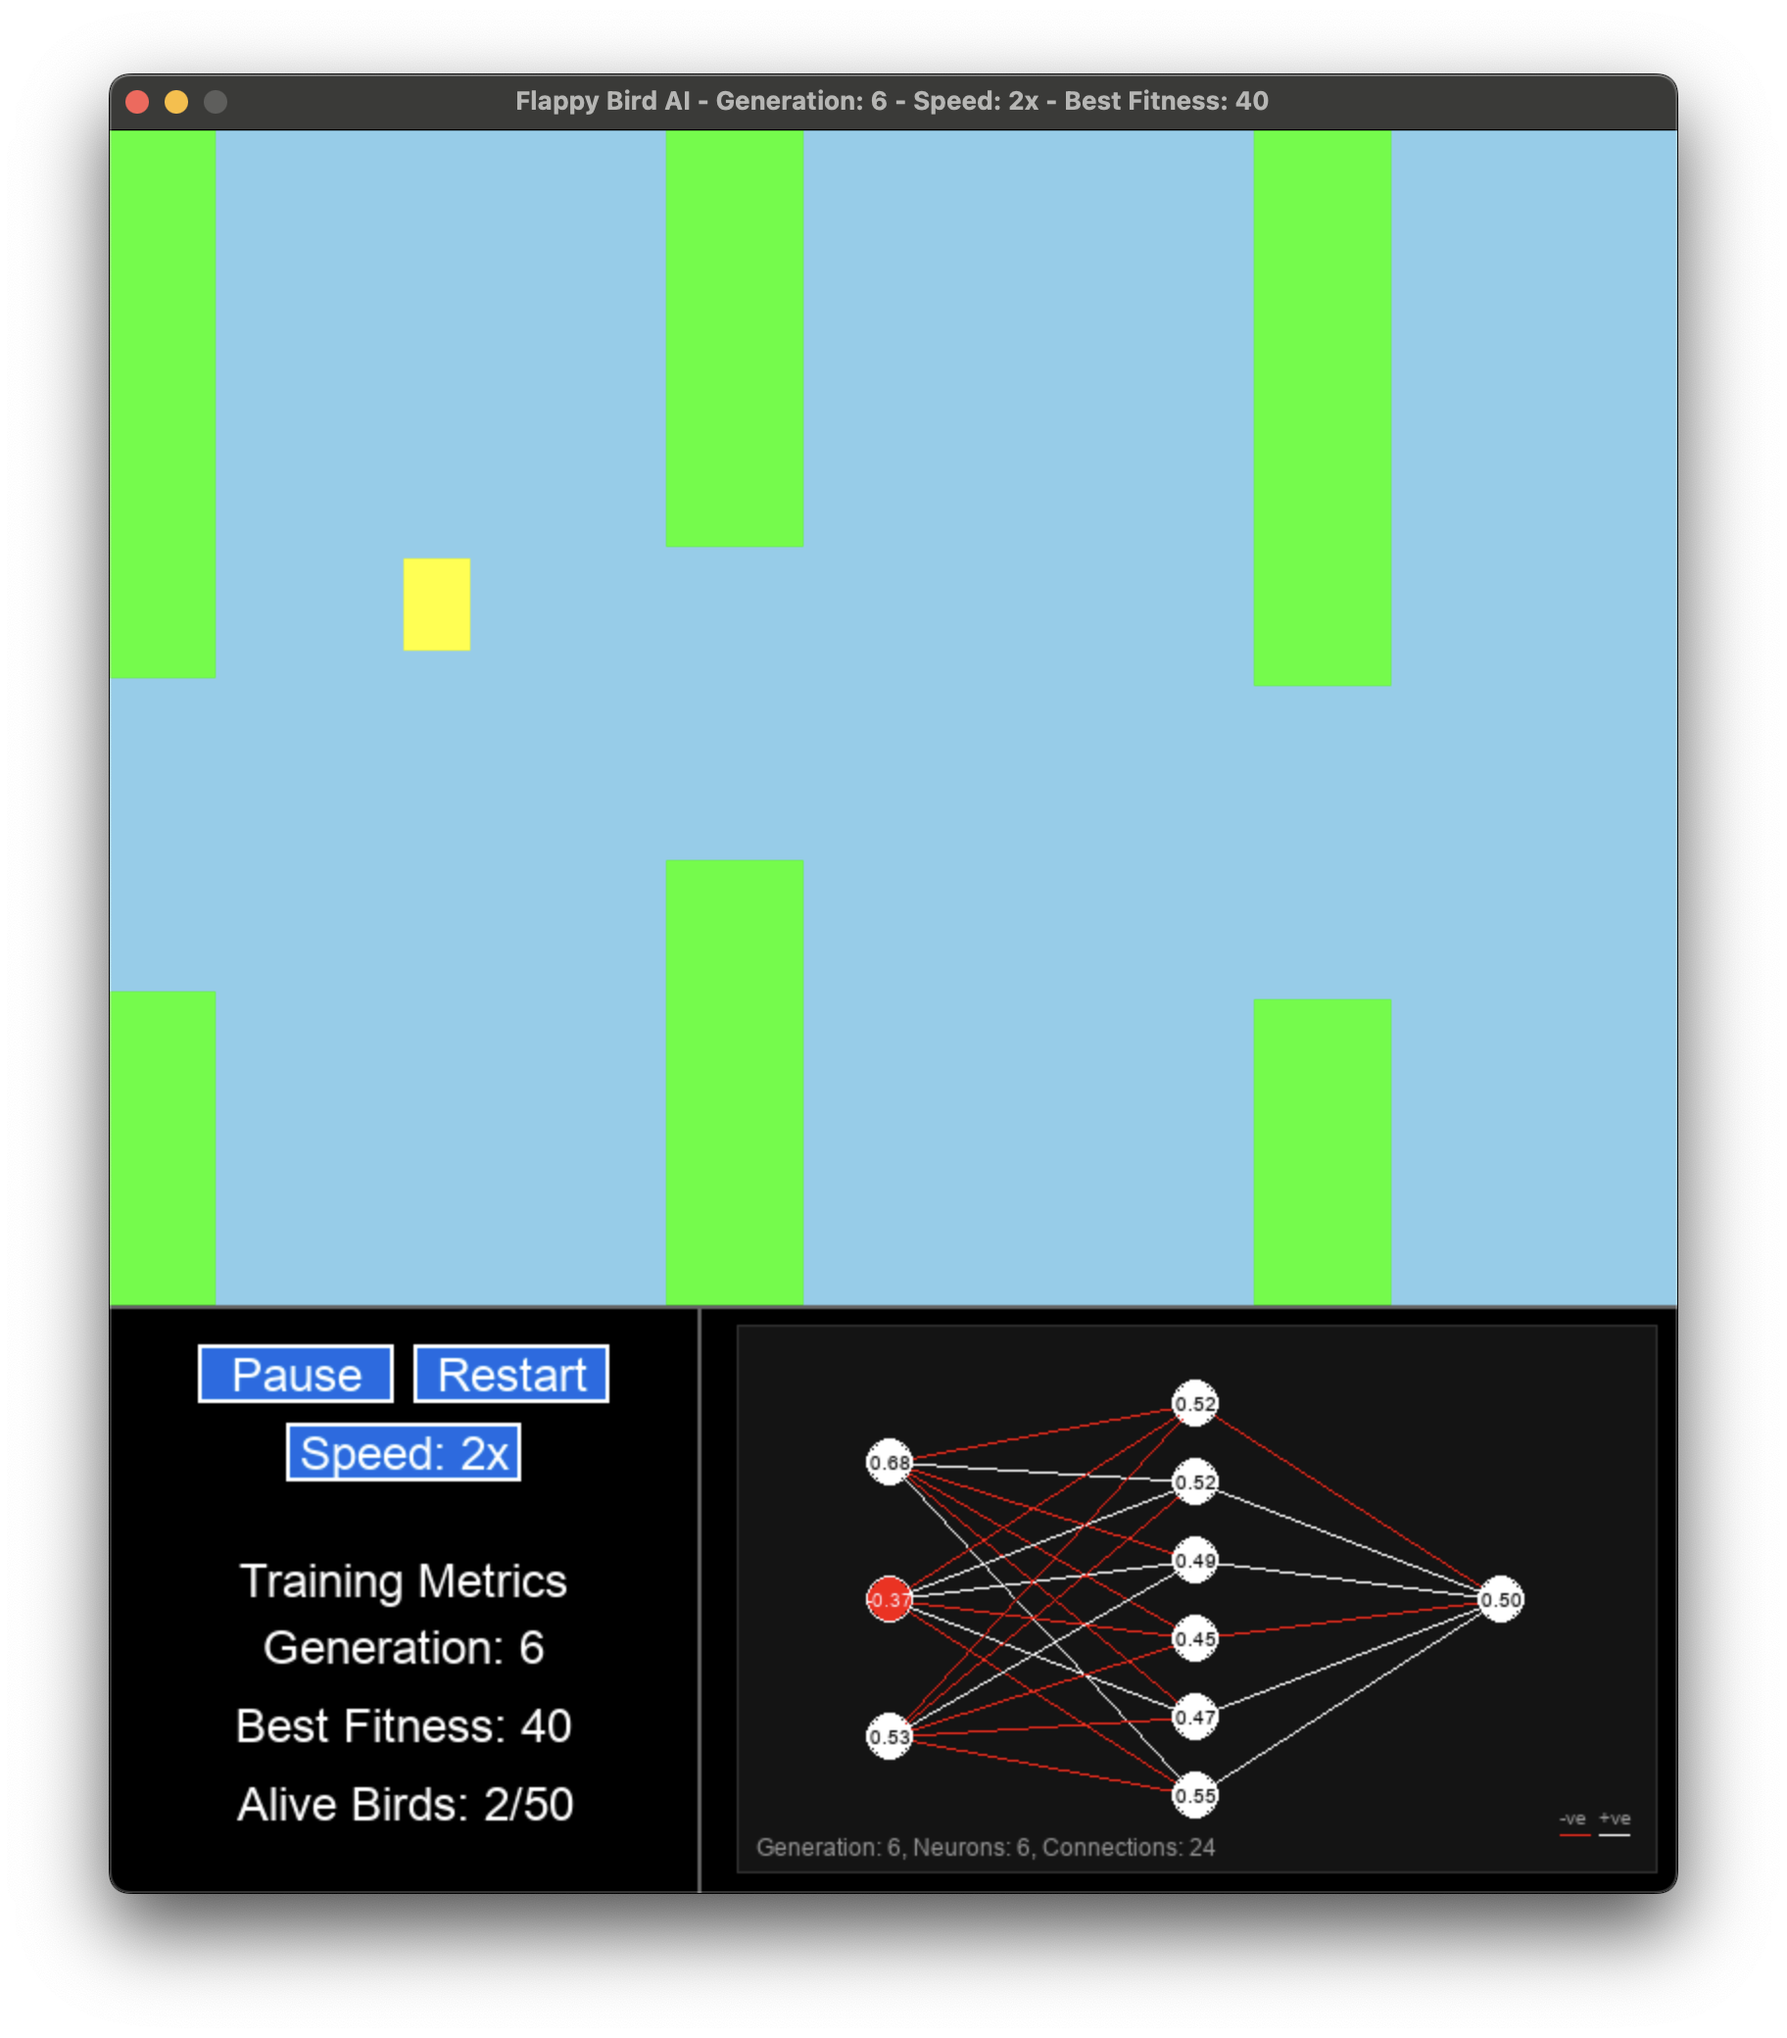
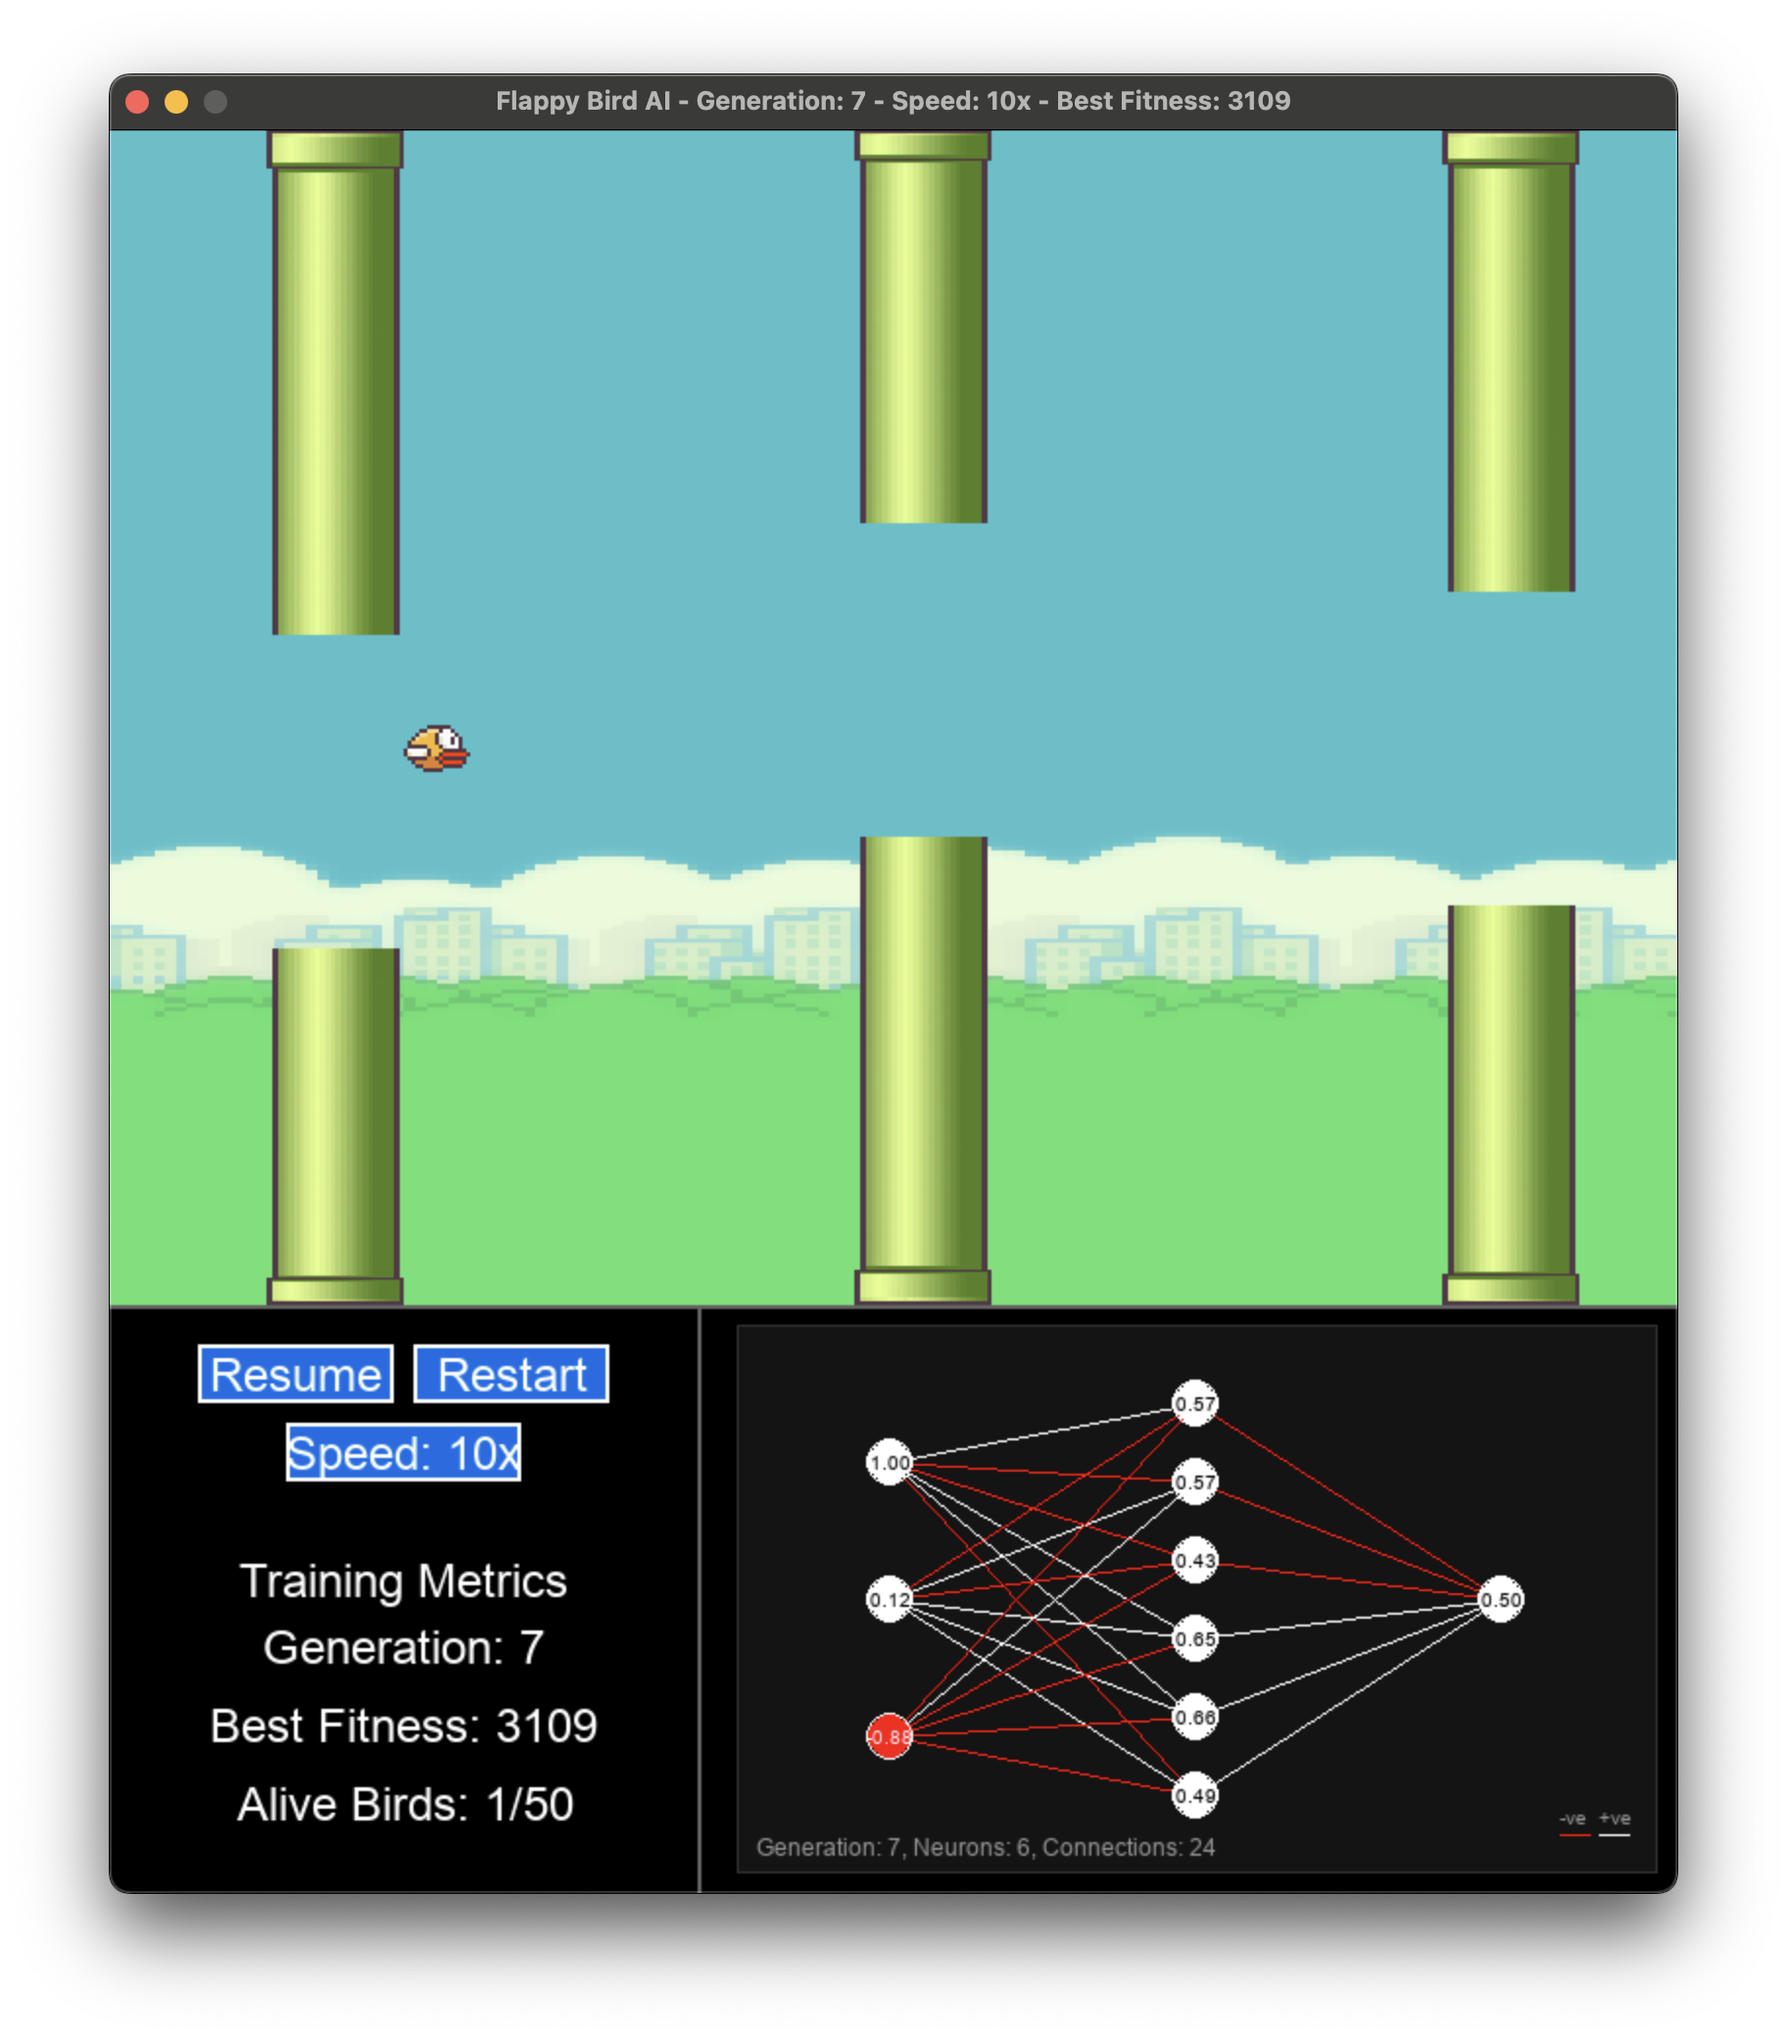
added assets

diff --git a/game/pipe.py b/game/pipe.py
@@ -1,5 +1,6 @@
 import pygame
 import random
+import os
 
 class Pipe:
     def __init__(self, x, game_height):
@@ -13,17 +14,21 @@ class Pipe:
         max_gap_y = game_height - 150 - self.gap_height
         self.gap_y = random.randint(min_gap_y, max_gap_y)
         
+        current_dir = os.path.dirname(os.path.dirname(__file__))
+        self.image = pygame.image.load(os.path.join(current_dir, "assets", "pipe.png")).convert_alpha()
+        self.image = pygame.transform.scale(self.image, (self.width, game_height))
+        
     def update(self):
         self.x -= self.speed
         
     def draw(self, screen):
-        pygame.draw.rect(screen, (0, 255, 0), 
-                        (self.x, 0, self.width, self.gap_y))
+        top_pipe = pygame.transform.scale(self.image, (self.width, self.gap_y))
+        screen.blit(top_pipe, (self.x, 0))
         
-        bottom_pipe_y = self.gap_y + self.gap_height
-        bottom_pipe_height = self.game_height - bottom_pipe_y
-        pygame.draw.rect(screen, (0, 255, 0),
-                        (self.x, bottom_pipe_y, self.width, bottom_pipe_height))
+        bottom_height = self.game_height - (self.gap_y + self.gap_height)
+        bottom_pipe = pygame.transform.scale(self.image, (self.width, bottom_height))
+        bottom_pipe = pygame.transform.flip(bottom_pipe, False, True)
+        screen.blit(bottom_pipe, (self.x, self.gap_y + self.gap_height))
     
     def get_rects(self):
         top_rect = pygame.Rect(self.x, 0, self.width, self.gap_y)

diff --git a/game/game.py b/game/game.py
@@ -1,4 +1,5 @@
 import pygame
+import os
 from .bird import Bird
 from .pipe import Pipe
 from .ui import UI
@@ -39,6 +40,10 @@ class FlappyBirdGame:
             width - self.metrics_width - 30,
             self.bottom_height - 20
         )
+        
+        current_dir = os.path.dirname(os.path.dirname(__file__))
+        self.background = pygame.image.load(os.path.join(current_dir, "assets", "background.png")).convert()
+        self.background = pygame.transform.scale(self.background, (width, self.game_height))
         
         self.reset()
 
@@ -93,7 +98,7 @@ class FlappyBirdGame:
         return closest_pipe
 
     def draw(self):
-        self.screen.fill((135, 206, 235), (0, 0, self.width, self.game_height))
+        self.screen.blit(self.background, (0, 0))
         self.screen.fill((0, 0, 0), (0, self.game_height, self.width, self.bottom_height))
         pygame.draw.line(self.screen, (100, 100, 100), (0, self.game_height), (self.width, self.game_height), 2)
         pygame.draw.line(self.screen, (100, 100, 100), (self.metrics_width, self.game_height), (self.metrics_width, self.height), 2)

diff --git a/game/bird.py b/game/bird.py
@@ -1,5 +1,6 @@
 import pygame
 import numpy as np
+import os
 
 class Bird:
     def __init__(self, x, y, index):
@@ -28,6 +29,10 @@ class Bird:
         self.fitness_prev = 0
         self.score_prev = 0
         
+        current_dir = os.path.dirname(os.path.dirname(__file__))
+        self.image = pygame.image.load(os.path.join(current_dir, "assets", "flappy-bird.png")).convert_alpha()
+        self.image = pygame.transform.scale(self.image, (self.width, self.height))
+        
     def flap(self):
         if self.alive:
             self.velocity = self.flap_strength
@@ -46,8 +51,7 @@ class Bird:
         if not self.alive:
             return
             
-        color = (255, 255, 0) if self.alive else (150, 150, 150)
-        pygame.draw.rect(screen, color, (self.x, self.y, self.width, self.height))
+        screen.blit(self.image, (self.x, self.y))
     
     def die(self):
         self.alive = False

diff --git a/main.py b/main.py
@@ -1,4 +1,5 @@
 import pygame
+import os
 from game.game import FlappyBirdGame
 from ai.genetic import GeneticAlgorithm
 
@@ -12,6 +13,7 @@ def main():
     game_speeds = [1, 2, 5, 10]
     speed_index = 0
     
+    pygame.init()
     while game.running:
         game.stats.update({
             'generation': ga.generation,
@@ -53,7 +55,7 @@ def main():
                 f"Speed: {game.game_speed}x - "
                 f"Best Fitness: {ga.best_fitness:.0f}"
             )
-    
+
     pygame.quit()
 
 if __name__ == "__main__":
